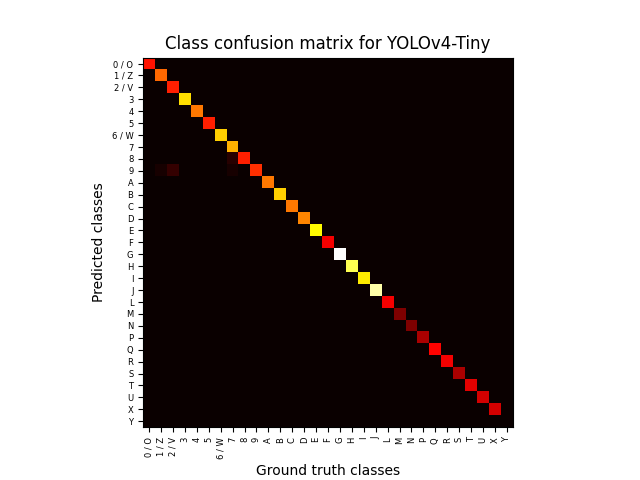
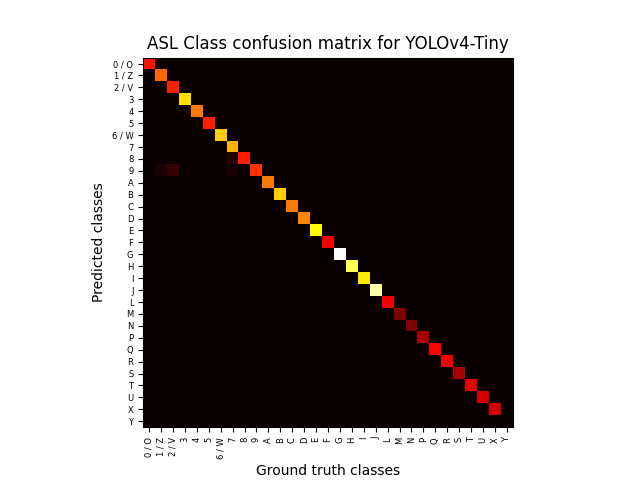
Last tests, completed running YOLOv4 ISL for another 30000 iterations, and performance was comparable with ASL

Changed region(s): [[0.2188, 0.0625, 0.7812, 0.125]]

diff --git a/YOLO/Parse_YOLO_results.py b/YOLO/Parse_YOLO_results.py
@@ -2,11 +2,14 @@ import numpy as np
 import matplotlib.pyplot as plt
 
 
-def infer(filepath, model_name):
+def infer_ASL(filepath, model_name):
     total_inf_time = 0
     total = 0
     correct = 0
     n_classes = 33
+
+    false_detections = 0
+    miss_class = 0
     matrix = np.zeros((n_classes, n_classes))
 
     class_names = ['0', '1', '2', '3', '4', '5', '6',
@@ -67,6 +70,10 @@ def infer(filepath, model_name):
 
                 if class_index == true_class_index:
                     correct += 1
+                elif true_class_index == -1:
+                    false_detections += 1
+                else:
+                    miss_class += 1
 
                 total += 1
 
@@ -89,14 +96,106 @@ def infer(filepath, model_name):
     rp = total / total_inf_time
 
     print('Model:', model_name, 'mAP:', precision, 'total inference time:', total_inf_time, 'rate of prediction:', rp, 'fps')
+    print('Detected with no sign present:', false_detections, 'misclassifications:', miss_class, 'total:', total)
     fig, ax = plt.subplots()
     ax.set_xlabel('Ground truth classes')
     ax.set_ylabel('Predicted classes')
-    ax.set_title(f'Class confusion matrix for {model_name}')
+    ax.set_title(f'ASL Class confusion matrix for {model_name}')
     ax.set_yticks(list(range(len(labels))))
     ax.set_yticklabels(labels, fontsize=6)
     ax.set_xticks(list(range(len(labels))))
     ax.set_xticklabels(labels, rotation=90, fontsize=6)
+
+    plt.imshow(matrix, cmap='hot', interpolation='nearest')
+    plt.savefig(f"results/ConfusionMatrix_{model_name}.png")
+
+
+def infer_ISL(filepath, model_name):
+    total_inf_time = 0
+    total = 0
+    correct = 0
+    n_classes = 36
+    matrix = np.zeros((n_classes, n_classes))
+
+    class_names = ['1', '2', '3', '4', '5', '6',
+                   '7', '8', '9', 'A', 'B', 'C', 'D', 'E', 'F', 'G',
+                   'H', 'I', 'J', 'K', 'L', 'M', 'N', 'O', 'P', 'Q',
+                   'R', 'S', 'T', 'U', 'V', 'W', 'X', 'Y', 'Z', 'None']
+
+    last_line_desc = False
+
+    with open(filepath) as f:
+        for line in f:
+
+            if 'Enter Image Path' in line:
+                contained_copy = False
+                if ' copy.jpg' in line:
+                    line = line.replace(' copy', '')
+                    contained_copy= True
+
+                if last_line_desc and true_class_index == -1:  # input had no sign, model detected no sign
+                    correct += 1
+                    total += 1
+                elif last_line_desc:  # input had sign, model detected no sign
+                    total += 1
+
+                last_line_desc = True
+                words = line.split(' ')
+                if len(words) < 6:
+                    break
+                image_filepath = words[3]
+                rate = words[6]
+                total_inf_time += float(rate)
+
+                if contained_copy:
+                    text_file_path = image_filepath.replace('.jpg:', ' copy.txt')
+                else:
+                    text_file_path = image_filepath.replace('jpg:', 'txt')
+
+                with open(text_file_path) as f2:
+                    true_class_index = -1
+                    for line2 in f2:
+                        true_class_index = int(line2.split(' ')[0])
+                        break
+
+            elif '%' in line:
+                if not last_line_desc:
+                    continue
+                last_line_desc = False
+                line = str(line.replace(':', ''))
+                line = str(line.replace('%', ''))
+                numbers = line.split(' ')
+                predicted_class = numbers[0]
+
+                class_index = class_names.index(predicted_class)
+
+                if class_index == true_class_index:
+                    correct += 1
+
+                total += 1
+
+                matrix[class_index, true_class_index] += 1
+
+    precision = correct / total
+
+    # remove unused classes
+    matrix = np.delete(matrix, n_classes - 2, 0)
+    matrix = np.delete(matrix, n_classes - 3, 0)
+    matrix = np.delete(matrix, n_classes - 2, 1)
+    matrix = np.delete(matrix, n_classes - 3, 1)
+
+
+    rp = total / total_inf_time
+
+    print('Model:', model_name, 'mAP:', precision, 'total inference time:', total_inf_time, 'rate of prediction:', rp, 'fps')
+    fig, ax = plt.subplots()
+    ax.set_xlabel('Ground truth classes')
+    ax.set_ylabel('Predicted classes')
+    ax.set_title(f'ISL Class confusion matrix for {model_name}')
+    ax.set_yticks(list(range(len(class_names))))
+    ax.set_yticklabels(class_names, fontsize=6)
+    ax.set_xticks(list(range(len(class_names))))
+    ax.set_xticklabels(class_names, rotation=90, fontsize=6)
 
     plt.imshow(matrix, cmap='hot', interpolation='nearest')
     plt.savefig(f"results/ConfusionMatrix_{model_name}.png")
@@ -107,8 +206,8 @@ if __name__ == "__main__":
     #model_results = ['results/Yolov3-Tiny_test_cpu_results.txt',
     #                 'results/Yolov4-Tiny_test_cpu_results.txt']
 
-    model_names = ['YOLOv4-Tiny_CPU']
-    model_results = [ 'results/Yolov4-Tiny_test_cpu_results.txt']
+    model_names = ['YOLOv4-ISL']
+    model_results = [ 'results/Yolov4-isl_test_results.txt']
 
     for index, model_name in enumerate(model_names):
-        infer(model_results[index], model_name)
+        infer_ISL(model_results[index], model_name)
